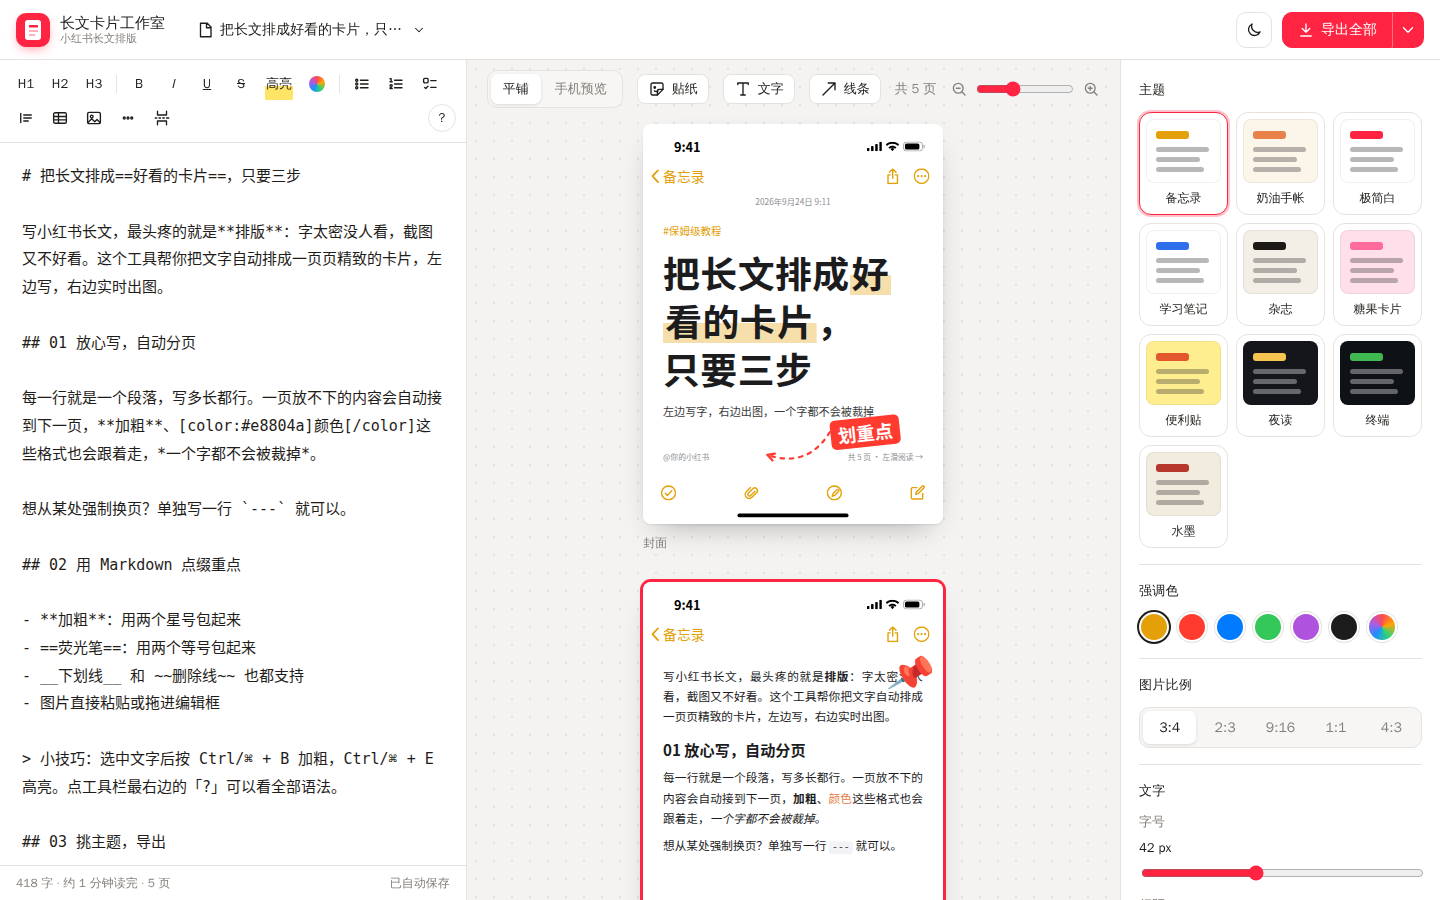
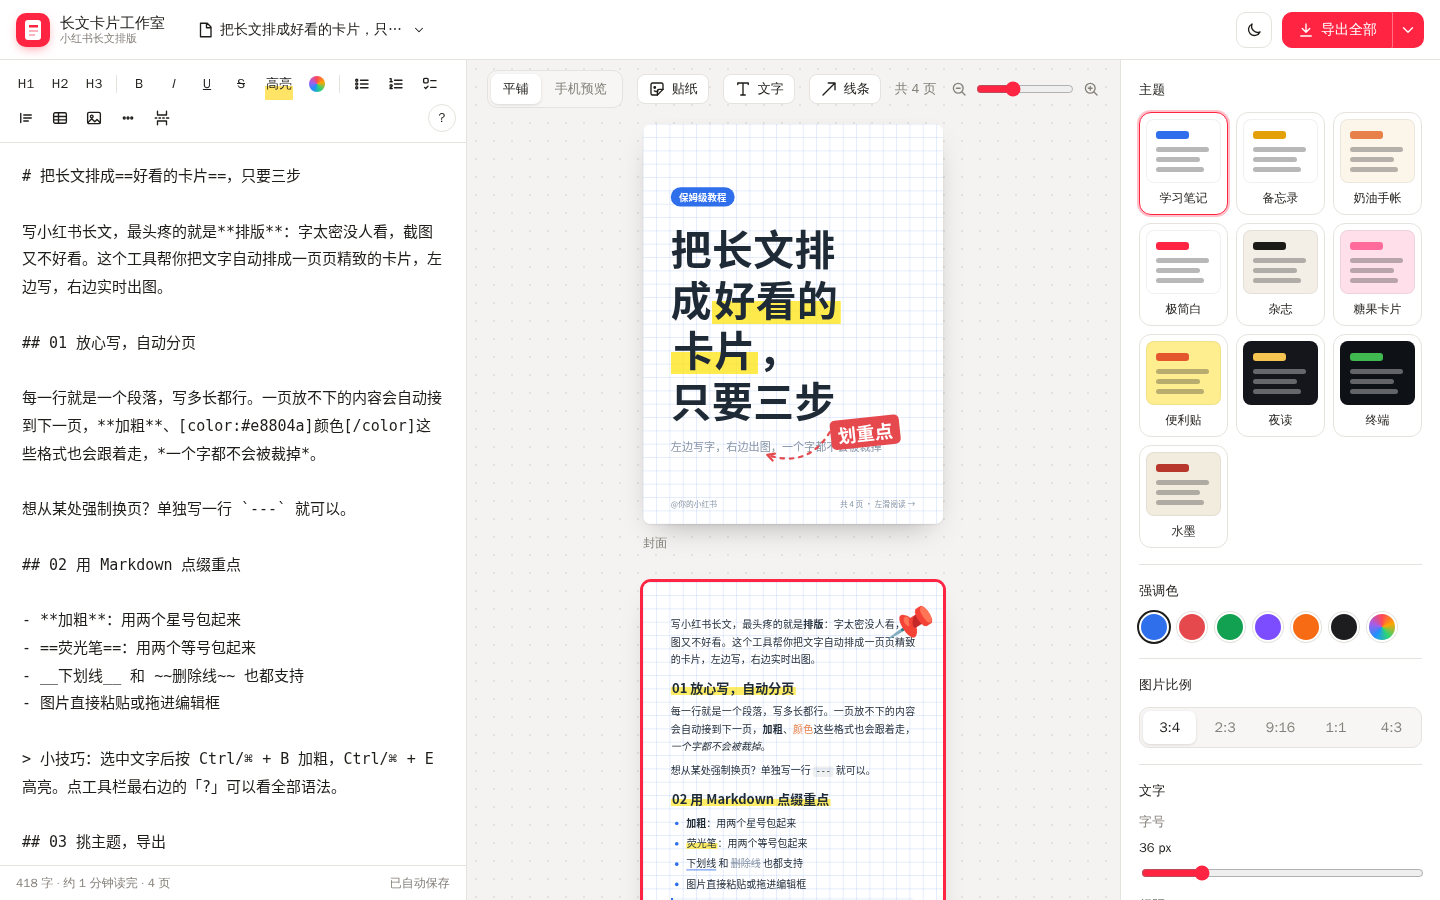
chore: 默认主题改为学习笔记并去掉回形针，默认字号 36px
- 学习笔记排到主题列表第一个，作为新草稿的默认主题；去掉顶上的回形针装饰
- 默认字号从 42px 改为 36px（已有草稿不受影响）
- 导出一致性测试允许 1px 的上下取整差异：段距是小数像素时，屏幕和导出对同一行的取整可能相差 1px
- 更新 README 截图和说明

Claude-Session: https://claude.ai/code/session_01UQTVUDBN7RZqn6NgYW43uC

diff --git a/js/themes.js b/js/themes.js
@@ -32,6 +32,13 @@ const Themes = (() => {
 
     const list = [
         {
+            id: 'grid',
+            name: '学习笔记',
+            desc: '方格纸 + 荧光笔，学霸同款',
+            accents: ['#2f6feb', '#e5484d', '#12a150', '#7c4dff', '#f76b15', '#1d1d1f'],
+            swatch: ['#ffffff', '#2f6feb'],
+        },
+        {
             id: 'memo',
             name: '备忘录',
             desc: '像 iPhone 备忘录截图，真实感拉满',
@@ -55,15 +62,6 @@ const Themes = (() => {
             desc: '干净克制，干货清单首选',
             accents: ['#ff2442', '#1d1d1f', '#2f6feb', '#0f9d58', '#ff7a00', '#8e44ef'],
             swatch: ['#ffffff', '#ff2442'],
-        },
-        {
-            id: 'grid',
-            name: '学习笔记',
-            desc: '方格纸 + 荧光笔，学霸同款',
-            accents: ['#2f6feb', '#e5484d', '#12a150', '#7c4dff', '#f76b15', '#1d1d1f'],
-            swatch: ['#ffffff', '#2f6feb'],
-            deco: '<i class="clip"></i>',
-            coverDeco: '<i class="clip"></i>',
         },
         {
             id: 'magazine',

diff --git a/css/pages.css b/css/pages.css
@@ -961,7 +961,7 @@
 .theme-sticky .cv { top: 200px; bottom: 200px; }
 .theme-sticky .cv-meta { bottom: -80px; }
 
-/* 6. 学习笔记 —— 方格纸 + 荧光笔，学霸同款 */
+/* 6. 学习笔记 —— 方格纸 + 荧光笔，学霸同款（默认主题） */
 .theme-grid {
     --bg: #ffffff;
     --ink: #1f2a37;
@@ -1009,15 +1009,6 @@
 }
 
 .theme-grid .cv-title mark { --hl: rgba(255, 226, 0, 0.7); }
-.theme-grid .clip {
-    top: 40px;
-    left: 150px;
-    width: 64px;
-    height: 170px;
-    border: 9px solid #b9c3d1;
-    border-radius: 40px;
-    transform: rotate(8deg);
-}
 
 /* 7. 糖果卡片 —— 渐变背景上的一张白色圆角卡片 */
 .theme-candy {

diff --git a/js/app.js b/js/app.js
@@ -17,10 +17,10 @@
     /* ================================================================ 默认值 */
 
     const DEFAULTS = {
-        theme: 'memo',
+        theme: 'grid',
         accent: null,
         ratio: '3:4',
-        fontSize: 42,
+        fontSize: 36,
         lineHeight: 1.75,
         paraSpacing: 0.6,
         align: 'justify',

diff --git a/README.md b/README.md
@@ -24,7 +24,7 @@
 - 写一行 `---` 可以强制分页
 
 ### 🎨 10 套主题
-**备忘录**（默认，像 iPhone 备忘录截图：状态栏、黄色「‹ 备忘录」、日期、底部工具栏）、奶油手帐、极简白、学习笔记、杂志、糖果卡片、便利贴、夜读、终端、水墨。每套都可以换强调色，也能单独调字号、行距、段距、首行缩进和字体（支持上传自己的字体）。
+**学习笔记**（默认，方格纸 + 荧光笔）、**备忘录**（像 iPhone 备忘录截图：状态栏、黄色「‹ 备忘录」、日期、底部工具栏）、奶油手帐、极简白、杂志、糖果卡片、便利贴、夜读、终端、水墨。每套都可以换强调色，也能单独调字号、行距、段距、首行缩进和字体（支持上传自己的字体）。
 
 ![主题一览](assets/screenshots/themes.png)
 
@@ -166,8 +166,11 @@ npm start                               # 本地服务器 http://localhost:8080
 
 ## 📜 更新记录
 
+**v2.3：默认样式调整**
+- 默认主题改为「学习笔记」，去掉它顶上的回形针；默认字号改为 36px（已有草稿不受影响）
+
 **v2.2：备忘录主题、文字和线条**
-- 新增「备忘录」主题，并设为默认主题（已有草稿保持原来的主题）
+- 新增「备忘录」主题
 - 页面上可以自由添加文字、虚线和箭头
 - 打开菜单时自动收起贴纸工具条，不会挡住菜单
 
